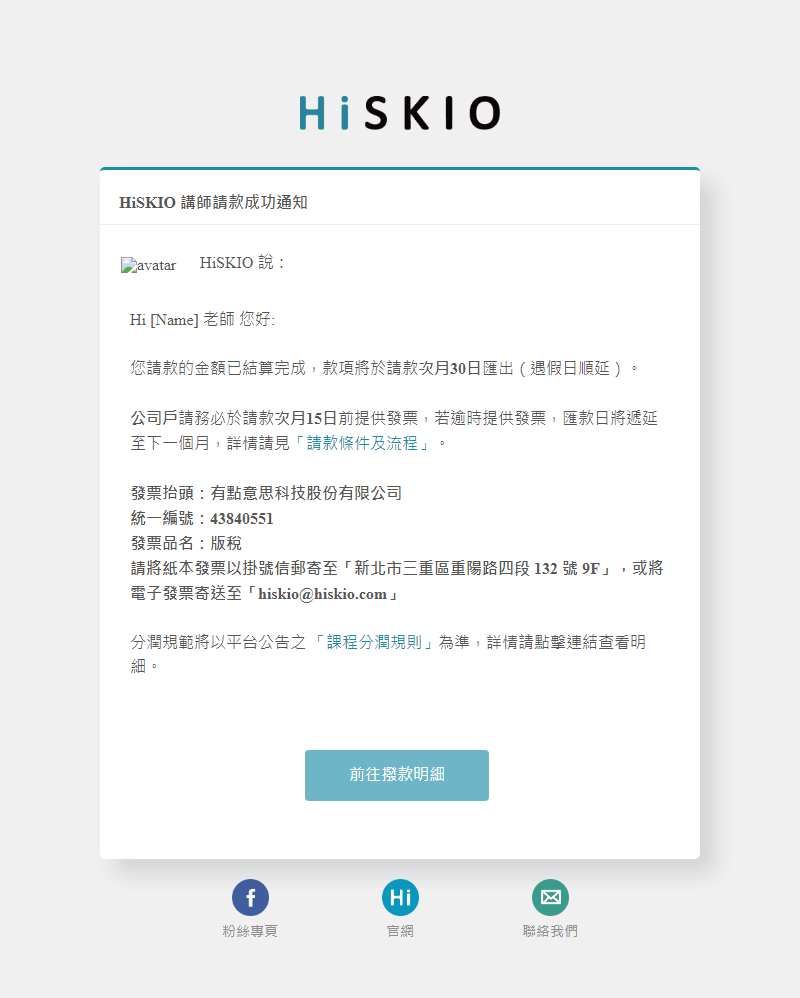
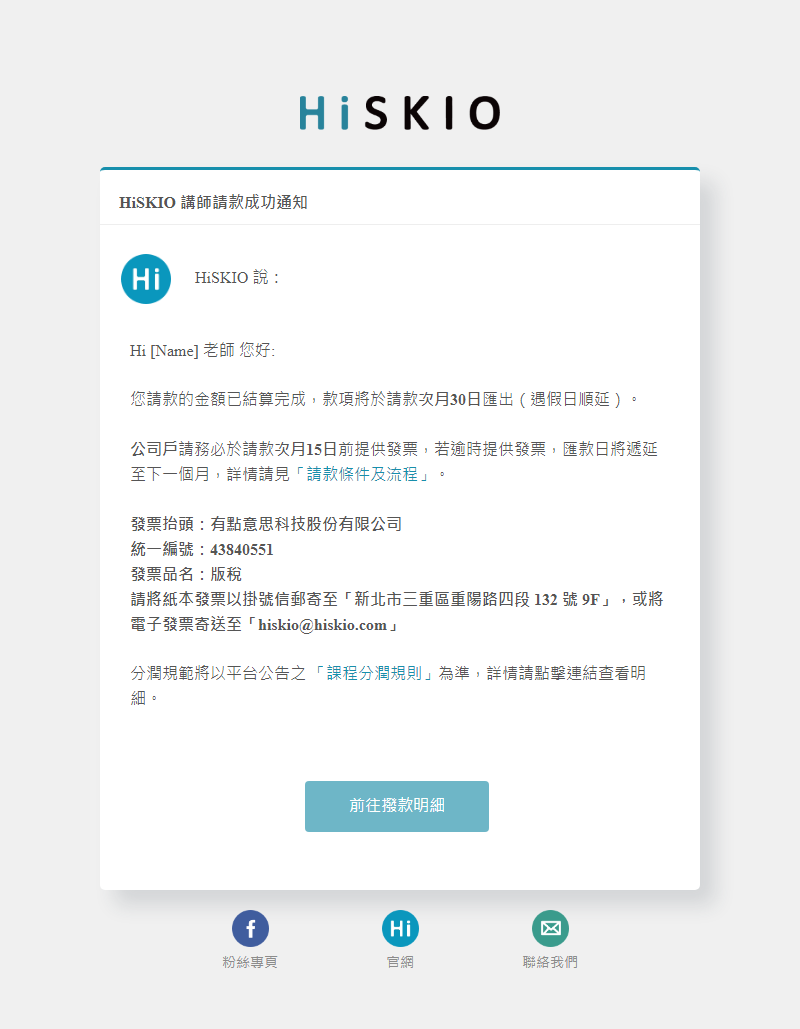
fix: #HI-4651: 分潤通知信件的頭像沒有顯示問題

diff --git a/output/emails/M01管理後台-分潤通知(個人戶與公司戶同一封)/index-en.html b/output/emails/M01管理後台-分潤通知(個人戶與公司戶同一封)/index-en.html
@@ -170,7 +170,7 @@
                                                                 <h2 style="margin:0; padding: 24px 19px 12px; font-size: 16px; line-height: 18px; font-weight: bold; border-bottom: 1px solid #EEEEEE;">HiSKIO 講師請款成功通知</h2>
                                                                 <div style="padding: 29px 27px 58px 21px;">
                                                                     <div style="margin-bottom: 38px;">
-                                                                        <img src="https://cdn.hiskio.com/mails/../&#x7BA1;&#x7406;&#x5F8C;&#x53F0;/&#x5206;&#x6F64;&#x901A;&#x77E5;/avatar.png" alt="avatar" width="50" height="50" style="margin-right: 20px; vertical-align: middle;">
+                                                                        <img src="https://edm.hiskio.com/source/5f1f8fd759c53/icon-hiskio-link.png?1597975125788" alt="avatar" width="50" height="50" style="margin-right: 20px; vertical-align: middle;">
                                                                         <div style="display: inline-block; line-height: 17px;">HiSKIO 說：</div>
                                                                     </div>
                                                                     <div style="padding-left: 9px;">

diff --git a/output/emails/M01管理後台-分潤通知(個人戶與公司戶同一封)/index-zh-CN.html b/output/emails/M01管理後台-分潤通知(個人戶與公司戶同一封)/index-zh-CN.html
@@ -170,7 +170,7 @@
                                                                 <h2 style="margin:0; padding: 24px 19px 12px; font-size: 16px; line-height: 18px; font-weight: bold; border-bottom: 1px solid #EEEEEE;">HiSKIO 講師請款成功通知</h2>
                                                                 <div style="padding: 29px 27px 58px 21px;">
                                                                     <div style="margin-bottom: 38px;">
-                                                                        <img src="https://cdn.hiskio.com/mails/../&#x7BA1;&#x7406;&#x5F8C;&#x53F0;/&#x5206;&#x6F64;&#x901A;&#x77E5;/avatar.png" alt="avatar" width="50" height="50" style="margin-right: 20px; vertical-align: middle;">
+                                                                        <img src="https://edm.hiskio.com/source/5f1f8fd759c53/icon-hiskio-link.png?1597975125788" alt="avatar" width="50" height="50" style="margin-right: 20px; vertical-align: middle;">
                                                                         <div style="display: inline-block; line-height: 17px;">HiSKIO 說：</div>
                                                                     </div>
                                                                     <div style="padding-left: 9px;">

diff --git a/output/emails/M01管理後台-分潤通知(個人戶與公司戶同一封)/index-zh-TW.html b/output/emails/M01管理後台-分潤通知(個人戶與公司戶同一封)/index-zh-TW.html
@@ -170,7 +170,7 @@
                                                                 <h2 style="margin:0; padding: 24px 19px 12px; font-size: 16px; line-height: 18px; font-weight: bold; border-bottom: 1px solid #EEEEEE;">HiSKIO 講師請款成功通知</h2>
                                                                 <div style="padding: 29px 27px 58px 21px;">
                                                                     <div style="margin-bottom: 38px;">
-                                                                        <img src="https://cdn.hiskio.com/mails/../&#x7BA1;&#x7406;&#x5F8C;&#x53F0;/&#x5206;&#x6F64;&#x901A;&#x77E5;/avatar.png" alt="avatar" width="50" height="50" style="margin-right: 20px; vertical-align: middle;">
+                                                                        <img src="https://edm.hiskio.com/source/5f1f8fd759c53/icon-hiskio-link.png?1597975125788" alt="avatar" width="50" height="50" style="margin-right: 20px; vertical-align: middle;">
                                                                         <div style="display: inline-block; line-height: 17px;">HiSKIO 說：</div>
                                                                     </div>
                                                                     <div style="padding-left: 9px;">
